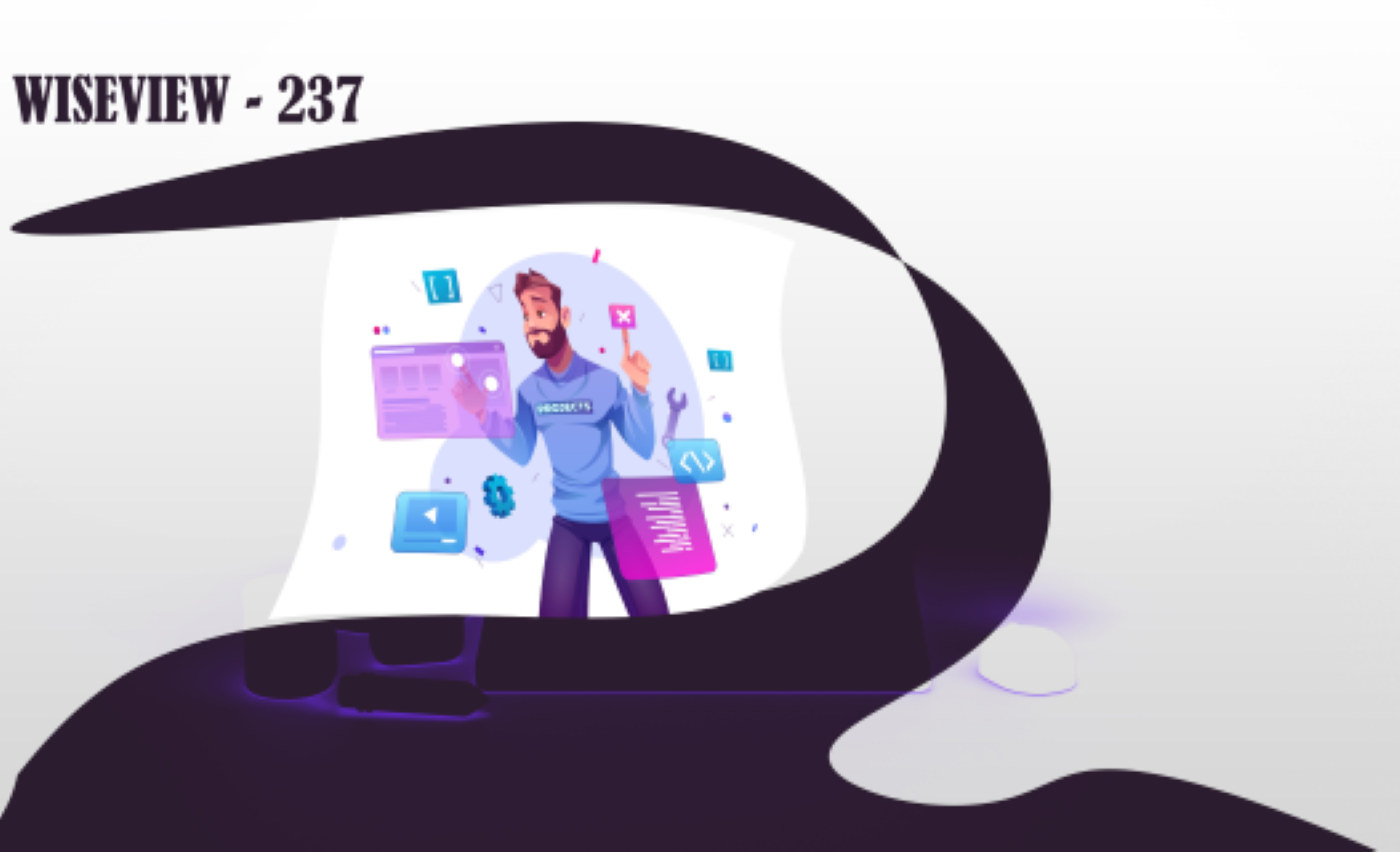
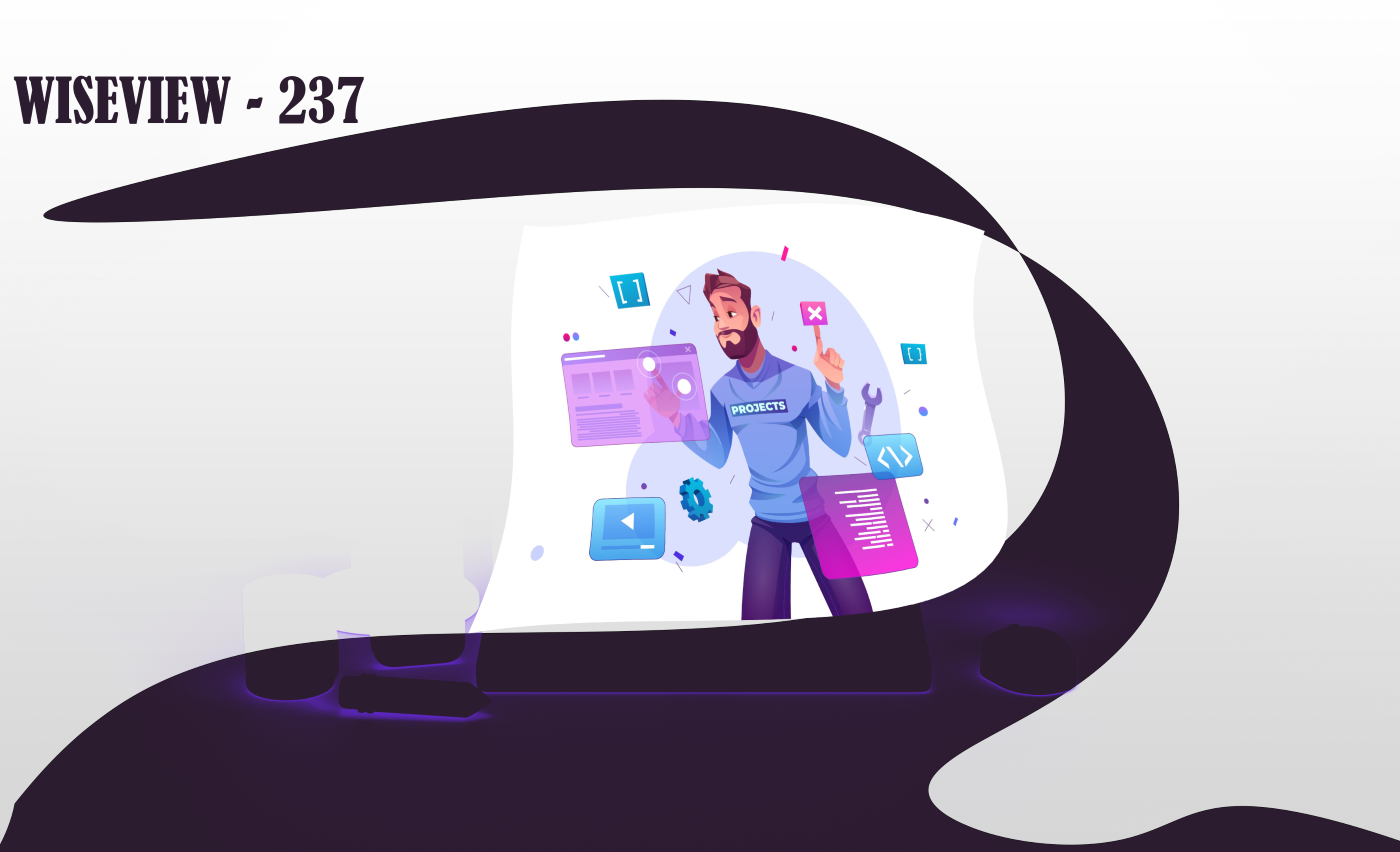
website completed

Changed region(s): [[0.0, 0.061, 0.8907, 1.0], [0.9214, 0.946, 1.0, 1.0], [0.2457, 0.8239, 0.3379, 0.8545]]

diff --git a/wiseview-infosite/src/Components/css/Topbar.css b/wiseview-infosite/src/Components/css/Topbar.css
@@ -14,7 +14,7 @@
   .topbar{
     height: 67px;
     width: 100%;
-    background-color: rgb(38, 38, 38);
+    background-color: rgb(34, 15, 34);
     position: fixed;
     z-index: 7;
     
@@ -51,15 +51,15 @@
     width: 80vw;
     transform: translateY(95px);
     visibility: visible;
-    background-color: rgb(40, 9, 52) ;
+    background-color: rgb(23, 9, 28) ;
     color: white;
     border-radius: 16px;
     margin-left: 10vw;
     margin-right: 10vw;
     padding-top: 3px;
-    position: relative;
-    z-index: 3;
-    
+    /* position: fixed;
+    z-index: 10000;
+     */
     
   }
   
@@ -85,10 +85,12 @@
       width: 70vw;
       transform: translateY(60px);
       visibility: visible;
-      background-color: rgb(38, 15, 47) ;
+      background-color: rgb(30, 12, 37) ;
       color: white;
       border-radius: 16px;
       padding-top: 1px;
+      position: relative;
+      z-index: 10000;
      
       
     }

diff --git a/wiseview-infosite/src/Components/css/Image.css b/wiseview-infosite/src/Components/css/Image.css
@@ -1,8 +1,8 @@
 .intro-page{
-    background-image: url('../Images/backgroundPicture1.jpg');
+    background-image: url('../Images/backgroundPicture1.png');
     height: 700px;
     width: 100%;
-    margin-top: 70px;
+    margin-top: 18px;
 }
 .button{
     position: inherit;
@@ -15,20 +15,20 @@ h3{
     font-family: cursive;
     margin-top: 420px;
     margin-left: 35px;
-    color:rgb(205, 193, 212)
+    color:rgb(24, 13, 31)
 }
 
 @media (min-width : 100px) and (max-width : 900px){
 
     .intro-page{
-        background-image: url('../Images/backgroundPicture2.jpg');
+        background-image: url('../Images/backgroundPicture2.png');
         height: 320px;
         width: 100%;
         margin-top: 75px;
     }
     .button{
     
-     transform: translate(20px, 158px);
+     transform: translate(6px, 158px);
      position: absolute;
      z-index: 1;
 

diff --git a/wiseview-infosite/src/Components/About.js b/wiseview-infosite/src/Components/About.js
@@ -19,9 +19,9 @@ const About = () =>{
              Apply new learnings to build great solutions for local problems. Advance your skills, career, and network. Give back to your community by helping others learn. </p>
     
 
-    <div >link-icons
+    <div className='link-icons' >
 
-<a href="https://github.com/Wise-view"><GitHubIcon/></a> &nbsp; <a href="https://github.com/Wise-view"> <GroupWorkIcon/> </a>
+<a  href="https://github.com/Wise-view"><GitHubIcon fontSize="large" /></a> &nbsp; <a href="https://github.com/Wise-view"> <GroupWorkIcon  fontSize="large"/> </a>
 
 </div>
         </div>

diff --git a/wiseview-infosite/src/Components/Topbar.js b/wiseview-infosite/src/Components/Topbar.js
@@ -25,7 +25,7 @@ const Topbar = () => {
        <div className='menubar'> <IconButton onClick={handletoggle}>   <MenuOutlinedIcon sx = {{color :"white"}} className='bar'   fontSize='large'/> </IconButton> </div>
         <div className='closed'>
         
-       <h2>MEMBERS</h2>
+       <h4>MEMBERS</h4>
      <IconButton onClick={handletoggle } >  <CloseIcon className='close-icon' sx = {{color :"white"}}  fontSize='large'/></IconButton>  
     
       <Accordion className='accordion-text'>

diff --git a/wiseview-infosite/src/Components/Image.js b/wiseview-infosite/src/Components/Image.js
@@ -10,7 +10,7 @@ const Image = () => {
         <div className="intro-page">
           
       
-        <Link to= "/join-us">   <Button  color="secondary"  variant="outlined" size="large" className="button">Join Us</Button> </Link>
+        <Link to= "/join-us">   <Button  color="secondary"  variant="contained" size="large" className="button">Join Us</Button> </Link>
     
       <h3>A small community to exercise your<br></br> coding skills</h3>
 

diff --git a/wiseview-infosite/src/Components/css/about.css b/wiseview-infosite/src/Components/css/about.css
@@ -6,14 +6,25 @@ h2{
 .about{
     padding: 8px;
     text-align: left;
-    height: 200px;
+    height: 600px;
+}
+.link-icons{
+    margin-top: 30%;
+    margin-left: 45%;
 }
 @media (min-width : 100px) and (max-width : 900px){
 
     .about{
+      
         padding: 8px;
         text-align: left;
         height: 550px;
+    }
+    .link-icons{
+        margin-top: 60%;
+        margin-left: 40%;
+
+        
     }
 
 

diff --git a/wiseview-infosite/src/Components/css/joinus.css b/wiseview-infosite/src/Components/css/joinus.css
@@ -8,3 +8,15 @@
     margin-left: 60px !important;
     margin-top: 120px !important;
 }
+
+
+
+@media (min-width : 100px) and (max-width : 900px){
+
+    .content{
+        transform: translateY(30px);
+        text-align: center;
+    }
+
+
+}

diff --git a/wiseview-infosite/src/App.js b/wiseview-infosite/src/App.js
@@ -10,8 +10,8 @@ import { BrowserRouter as Router, Route, Routes } from "react-router-dom";
 function App() {
   return (
     <div>
-      <Topbar />
 
+      <Topbar />
       <Router>
         <header className="App-header">
        

diff --git a/wiseview-infosite/src/index.css b/wiseview-infosite/src/index.css
@@ -1,4 +1,5 @@
 body {
+  height: 100%;
   margin: 0px;
   background-color: rgb(36, 17, 44) ;
   font-family: -apple-system, BlinkMacSystemFont, 'Segoe UI', 'Roboto', 'Oxygen',
